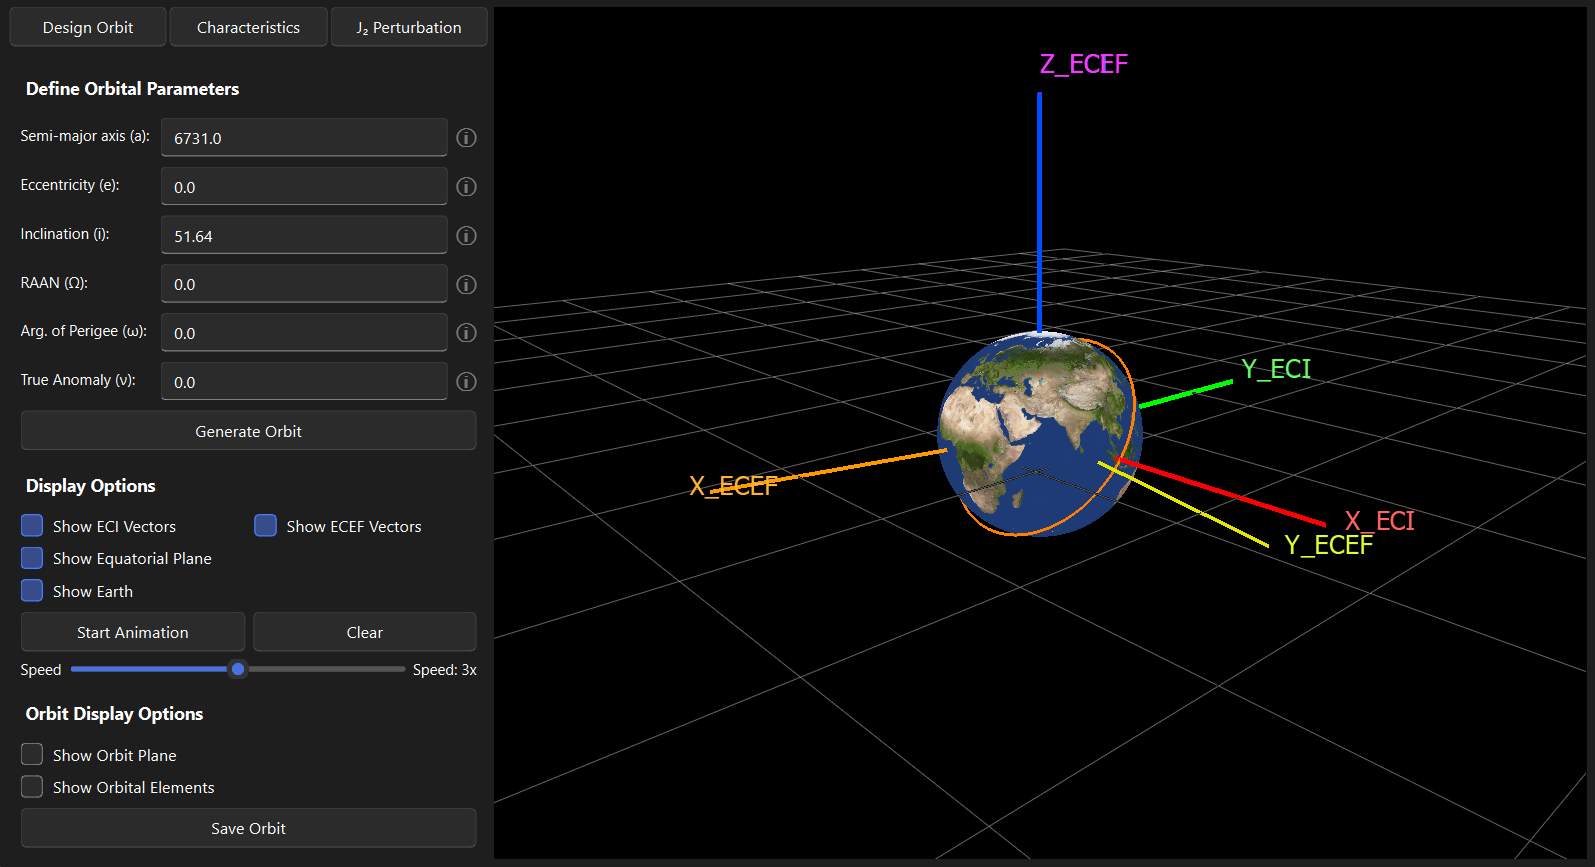
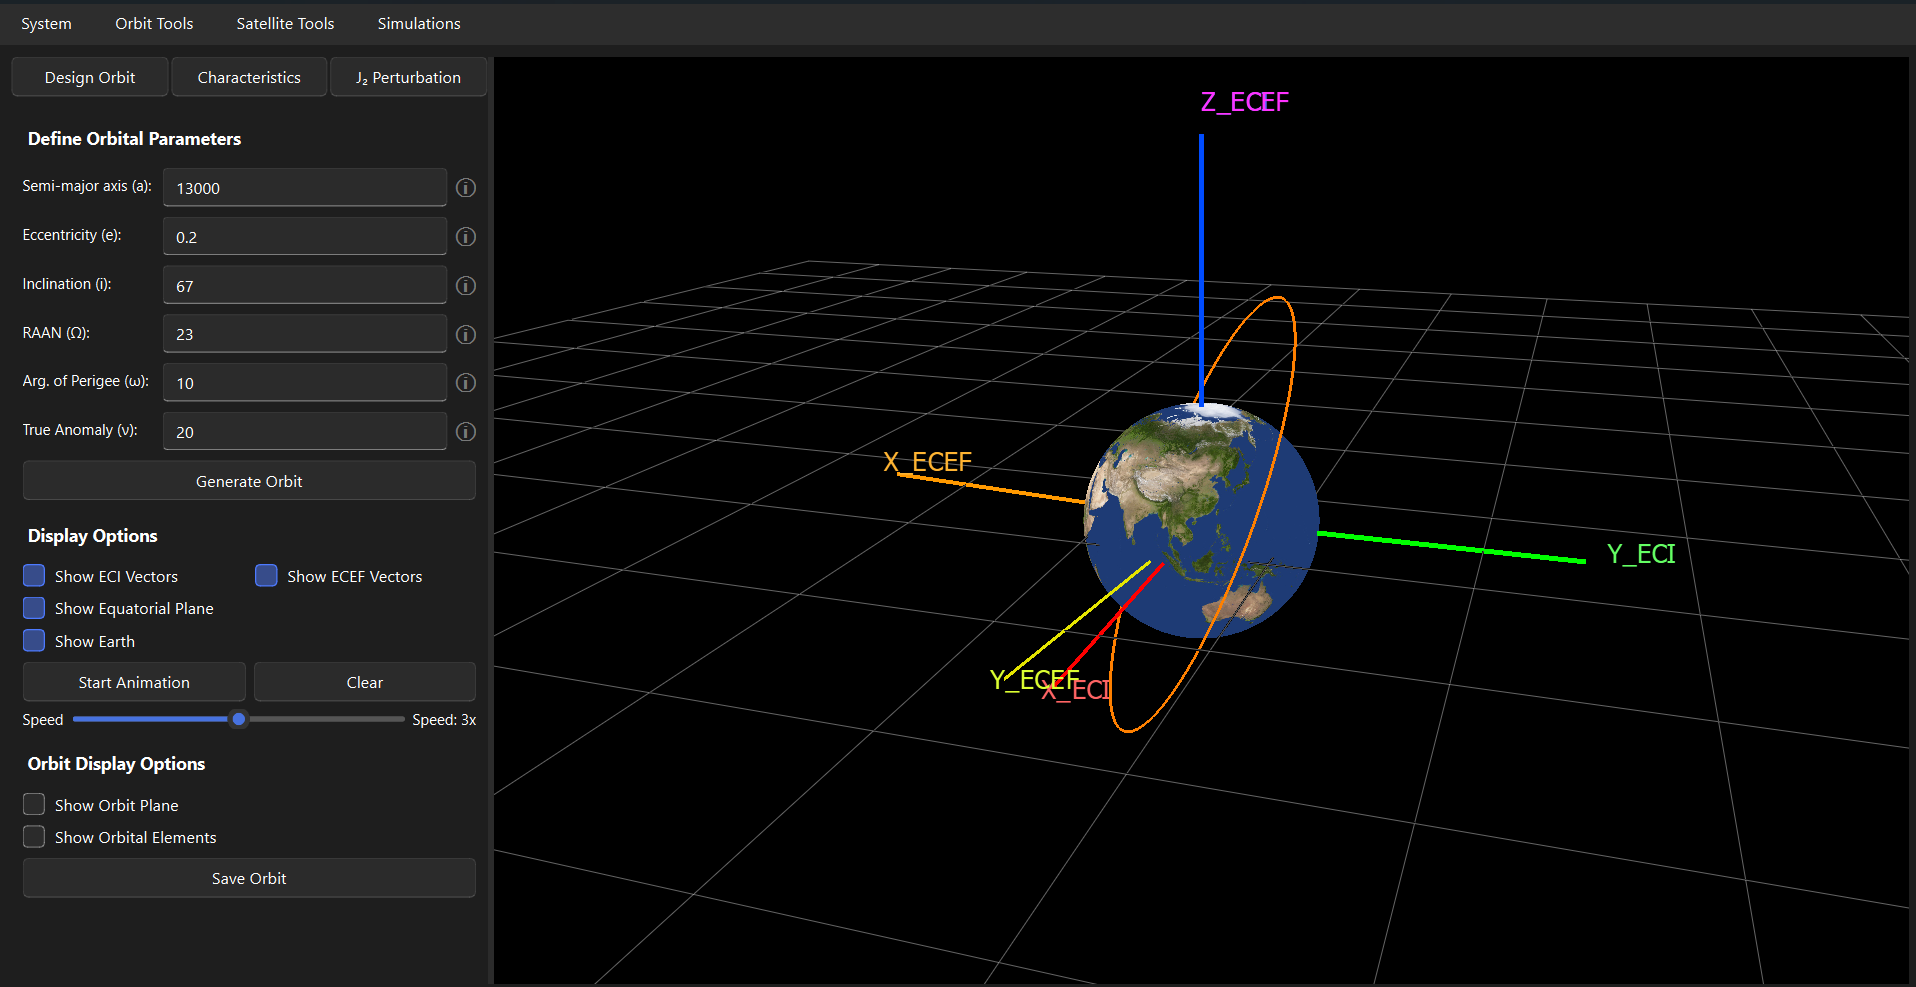
Little changes

diff --git a/core/tests/satellite/test_satellite_inertia_tensor.py b/core/tests/satellite/test_satellite_inertia_tensor.py
@@ -1,0 +1,128 @@
+import numpy as np
+import pytest
+from numpy.testing import assert_allclose
+
+from core.physics.dataclasses.satellite_configuration import calculate_total_inertia_tensor
+
+
+def test_calculate_total_inertia_empty_wheels():
+    i_b = np.diag([10.0, 12.0, 15.0])
+    i_s = calculate_total_inertia_tensor(
+        mechanical_tensor=i_b,
+        wheel_mass=1.0,
+        wheel_radius=0.1,
+        wheel_height=0.05,
+        wheel_axes=[],
+        wheel_offsets=[],
+    )
+    assert_allclose(i_s, i_b, atol=1e-15)
+
+
+import numpy as np
+from numpy.testing import assert_allclose
+
+
+def test_calculate_total_inertia_default_offset():
+    # Kadłub o zerowej masie dla wyizolowania wpływu samego koła
+    i_b = np.zeros((3, 3))
+    mass = 2.0
+    r = 0.01  # promień koła [m]
+    h = 0.01  # wysokość koła [m]
+    default_d = 0.005  # domyślny nominalny offset 5 mm (0.005 m)
+
+    # Koło zorientowane wzdłuż osi Z
+    axis_z = np.array([0.0, 0.0, 1.0])
+
+    # Wywołanie funkcji z wheel_offsets=None (wymuszenie domyślnego offsetu)
+    i_s = calculate_total_inertia_tensor(
+        mechanical_tensor=i_b,
+        wheel_mass=mass,
+        wheel_radius=r,
+        wheel_height=h,
+        wheel_axes=[axis_z],
+        wheel_offsets=None,
+    )
+
+    # 1. Analityczny tensor bezwładności pojedynczego walca (w układzie lokalnym):
+    # I_z = 0.5 * m * r^2
+    # I_x = I_y = (1/12) * m * (3*r^2 + h^2)
+    i_z_local = 0.5 * mass * (r**2)
+    i_x_local = (1.0 / 12.0) * mass * (3 * (r**2) + (h**2))
+
+    # 2. Poprawka Steinera dla przesunięcia r = [0, 0, default_d]:
+    # delta_Ixx = m * d^2
+    # delta_Iyy = m * d^2
+    # delta_Izz = 0 (przesunięcie wzdłuż osi obrotu)
+    steiner_xx = mass * (default_d**2)
+    steiner_yy = mass * (default_d**2)
+
+    # Oczekiwane wartości końcowe
+    expected_ixx = i_x_local + steiner_xx
+    expected_iyy = i_x_local + steiner_yy
+    expected_izz = i_z_local
+
+    # Weryfikacja
+    assert_allclose(i_s[0, 0], expected_ixx, rtol=1e-5)
+    assert_allclose(i_s[1, 1], expected_iyy, rtol=1e-5)
+    assert_allclose(i_s[2, 2], expected_izz, rtol=1e-5)
+    assert_allclose(i_s[0, 1], 0.0, atol=1e-15)  # brak elementów pozaprzekątnych
+
+
+def test_calculate_total_inertia_physical_invariants():
+    i_b = np.diag([5.0, 5.0, 8.0])
+    axes = [
+        np.array([1.0, 0.0, 0.0]),
+        np.array([0.0, 1.0, 0.0]),
+        np.array([0.707, 0.707, 0.0]),
+    ]
+    offsets = [
+        np.array([0.1, 0.0, 0.0]),
+        np.array([0.0, 0.2, 0.0]),
+        np.array([0.05, 0.05, 0.1]),
+    ]
+
+    i_s = calculate_total_inertia_tensor(
+        mechanical_tensor=i_b,
+        wheel_mass=0.5,
+        wheel_radius=0.05,
+        wheel_height=0.02,
+        wheel_axes=axes,
+        wheel_offsets=offsets,
+    )
+
+    # 1. Symetria
+    assert_allclose(i_s, i_s.T, atol=1e-14)
+
+    # 2. Dodatnia określoność (wszystkie wartości własne > 0)
+    eigenvalues = np.linalg.eigvalsh(i_s)
+    assert np.all(eigenvalues > 0)
+
+    # 3. Nierówność trójkąta
+    ixx, iyy, izz = i_s[0, 0], i_s[1, 1], i_s[2, 2]
+    assert ixx + iyy > izz
+    assert ixx + izz > iyy
+    assert iyy + izz > ixx
+
+
+def test_analytical_values():
+
+    i_b = np.diag(
+        [1/6, 1/6, 1/15]
+    )
+
+    i_s = calculate_total_inertia_tensor(
+        mechanical_tensor=i_b,
+        wheel_mass=0.5,
+        wheel_radius=0.05,
+        wheel_height=0.02,
+        wheel_axes=[np.array([1, 0, 0])],
+        wheel_offsets=None,
+    )
+
+    expected_ixx = 0.16729167
+    expected_iyy = 0.16700833
+    expected_izz = 0.06700833
+
+    assert_allclose(i_s[0, 0], expected_ixx, rtol=1e-5)
+    assert_allclose(i_s[1, 1], expected_iyy, rtol=1e-5)
+    assert_allclose(i_s[2, 2], expected_izz, rtol=1e-5)

diff --git a/core/physics/solver/simulation_engine.py b/core/physics/solver/simulation_engine.py
@@ -4,7 +4,6 @@ from typing import Dict, List, Optional, Tuple
 import numpy as np
 
 from core.physics.control.bdot import BdotController
-from core.physics.control.moment_dumping_controller import MomentumDumpingController
 from core.physics.control.rw_controller import ReactionWheelsController
 from core.physics.control.slerp_trajectory import SlerpTrajectoryGenerator
 from core.physics.dataclasses.satellite_configuration import (
@@ -121,15 +120,7 @@ class SimulationEngine:
         self.current_tau_ctrl = np.zeros(3, dtype=float)
         self.i_ctrl = np.zeros(3, dtype=float)
 
-        self.momentum_dumping_controller = MomentumDumpingController(
-            wheel_axes=self.wheel_axes,
-            I_R_spin=self.I_R_spin,
-            max_wheel_speed=self.rw_controller.max_speed,
-            dump_start_ratio=0.70,
-            dump_full_ratio=0.90,
-            dump_gain=0.01,
-            max_dipole=0.2,
-        )
+
 
         self.atmospheric_model = AtmosphericDragDisturbance(
             mass=m_total,
@@ -149,7 +140,6 @@ class SimulationEngine:
 
         self.current_m_dipole = np.zeros(3)
         self.current_tau_mag = np.zeros(3)
-        self.momentum_dumping_active = False
 
         self.next_mag_update = 0.0
         self.next_gyro_update = 0.0
@@ -226,7 +216,6 @@ class SimulationEngine:
 
                 self.current_m_dipole = self.i_ctrl
                 self.current_tau_mag = self.current_tau_ctrl
-                self.momentum_dumping_active = False
 
             elif self.adcs_mode == "POINTING":
                 self.i_ctrl = np.zeros(3)
@@ -282,14 +271,6 @@ class SimulationEngine:
                     target_omega=cmd_omega,
                 )
 
-                (
-                    self.current_m_dipole,
-                    self.current_tau_mag,
-                    self.momentum_dumping_active,
-                ) = self.momentum_dumping_controller.compute_control(
-                    current_omega_rw=self.sim_state.satellite.omega_rw,
-                    current_b_body=self.current_b_body,
-                )
             else:
                 self.i_ctrl = np.zeros(3)
                 self.alpha_wheels = np.zeros(
@@ -298,7 +279,6 @@ class SimulationEngine:
                 self.current_tau_ctrl = np.zeros(3)
                 self.current_m_dipole = np.zeros(3)
                 self.current_tau_mag = np.zeros(3)
-                self.momentum_dumping_active = False
 
             self.next_control_update += self.dt_control
 

diff --git a/core/physics/dataclasses/satellite_configuration.py b/core/physics/dataclasses/satellite_configuration.py
@@ -117,11 +117,9 @@ def calculate_rotation_matrix_to_axis(target_axis: np.ndarray) -> np.ndarray:
     if np.isclose(dot_prod, -1.0):
         return np.diag([1.0, -1.0, -1.0])
 
-    # Wektor osi obrotu (iloczyn wektorowy)
     v = np.cross(z_local, n_ri)
     s_v = skew_symmetric_matrix(v)
     
-    # Formuła Rodrigues'a dla macierzy obrotu
     r_matrix = np.eye(3, dtype=float) + s_v + (s_v @ s_v) * (1.0 / (1.0 + dot_prod))
     return r_matrix
 
@@ -153,13 +151,10 @@ def calculate_axisymmetric_cylinder_inertia_tensor(
     if wheel_tensor is not None:
         i_rwi = np.asarray(wheel_tensor, dtype=float)
         if i_rwi.shape != (3, 3):
-            raise ValueError("Wektor/macierz 'wheel_tensor' musi mieć wymiary 3x3.")
+            raise ValueError()
     else:
         if wheel_mass is None or wheel_radius is None or wheel_height is None:
-            raise ValueError(
-                "W przypadku braku 'wheel_tensor' należy podać parametry: "
-                "wheel_mass, wheel_radius oraz wheel_height."
-            )
+            raise ValueError()
         i_rwi = calculate_reaction_wheel_local_inertia(wheel_mass, wheel_radius, wheel_height)
 
     if axis is None:
@@ -213,24 +208,19 @@ def calculate_total_inertia_tensor(
     i_s = np.array(mechanical_tensor, dtype=float, copy=True)
 
     for i, axis in enumerate(wheel_axes):
-        # 1. Transformacja osi i wyznaczenie I_Ri^B
         i_ri_b = calculate_axisymmetric_cylinder_inertia_tensor(
             wheel_mass, wheel_radius, wheel_height, axis
         )
 
-        # 2. Wyznaczenie wektora przesunięcia r_Ri
         if wheel_offsets is not None and i < len(wheel_offsets):
             r_ri = np.array(wheel_offsets[i], dtype=float)
         else:
-            # Domyślny nominalny offset 5 mm wzdłuż osi obrotu koła
             norm_axis = axis / np.linalg.norm(axis) if np.linalg.norm(axis) > 0 else axis
             r_ri = norm_axis * 0.005
 
-        # 3. Twierdzenie Steinera: m_R * S(r_Ri) * S(r_Ri)^T
         s_r = skew_symmetric_matrix(r_ri)
         steiner_term = wheel_mass * (s_r @ s_r.T)
 
-        # 4. Sumowanie składników I_RBi^B
         i_rbi_b = i_ri_b + steiner_term
         i_s += i_rbi_b
         i_s[np.abs(i_s) < 1e-15] = 0.0  

diff --git a/ui/tests/test_gmst.py b/ui/tests/test_gmst.py
@@ -1,0 +1,51 @@
+import datetime
+import pytest
+
+from utils.rotations import datetime_to_julian_date, get_initial_gmst
+
+
+@pytest.mark.parametrize(
+    "dt, expected_jd, expected_gmst",
+    [
+        (
+            datetime.datetime(2000, 1, 1, 12, 0, 0, tzinfo=datetime.timezone.utc),
+            2451545.0,
+            280.46061837,
+        ),
+        (
+            datetime.datetime(2000, 1, 1, 0, 0, 0, tzinfo=datetime.timezone.utc),
+            2451544.5,
+            99.967794686855,
+        ),
+        (
+            datetime.datetime(2024, 1, 1, 0, 0, 0, tzinfo=datetime.timezone.utc),
+            2460310.5,
+            100.15260758483782,  # Poprawiona wartość
+        ),
+    ],
+)
+
+def test_julian_date_and_gmst_known_values(dt, expected_jd, expected_gmst):
+    jd = datetime_to_julian_date(dt)
+    gmst = get_initial_gmst(jd)
+
+    assert jd == pytest.approx(expected_jd, abs=1e-6)
+    assert gmst == pytest.approx(expected_gmst, abs=1e-6)
+
+
+def test_timezone_conversion():
+    cet = datetime.timezone(datetime.timedelta(hours=1))
+    dt_cet = datetime.datetime(2000, 1, 1, 13, 0, 0, tzinfo=cet)
+
+    jd = datetime_to_julian_date(dt_cet)
+    gmst = get_initial_gmst(jd)
+
+    assert jd == pytest.approx(2451545.0, abs=1e-6)
+    assert gmst == pytest.approx(280.46061837, abs=1e-6)
+
+
+def test_naive_datetime_handling():
+    dt_naive = datetime.datetime(2000, 1, 1, 12, 0, 0)
+
+    jd = datetime_to_julian_date(dt_naive)
+    assert jd == pytest.approx(2451545.0, abs=1e-6)

diff --git a/ui/simulation/simulation_view.py b/ui/simulation/simulation_view.py
@@ -99,6 +99,7 @@ class SimulationView(QWidget):
             QSizePolicy.Policy.Expanding,
         )
 
+
         self.controls_panel_container.satellite_state_changed.connect(
             self._on_satellite_state_changed
         )
@@ -115,7 +116,8 @@ class SimulationView(QWidget):
         self.initial_gmst = get_initial_gmst(current_jd)
         self.current_ecef_rotation = self.initial_gmst
 
-        self.scene_panel_container._ensure_ECEF_orientation(self.current_ecef_rotation)        
+        self.scene_panel_container._ensure_ECEF_orientation(self.current_ecef_rotation)
+             
 
         splitter.addWidget(self.controls_panel_container)
         splitter.addWidget(self.scene_panel_container)

diff --git a/ui/satellite/satellite_configurator.py b/ui/satellite/satellite_configurator.py
@@ -137,6 +137,7 @@ class SatelliteConfigurator(QWidget):
                 "\n".join(errors.values() if isinstance(errors, dict) else errors),
                 icon=QMessageBox.Icon.Warning
             )
+            self.reset()
             return
 
         # 1. Zablokowanie sygnałów w panelu kontrolek na czas aplikacji danych

diff --git a/ui/orbits/orbit_designer.py b/ui/orbits/orbit_designer.py
@@ -70,6 +70,7 @@ class OrbitDesigner(QWidget):
         
         self.initial_gmst = get_initial_gmst(current_jd)
         self.current_ecef_rotation = self.initial_gmst
+        print("Current GMST angle: ", self.current_ecef_rotation)
     
         self.total_steps_elapsed = 0
 

diff --git a/ui/simulation/components/simulation_control_panel.py b/ui/simulation/components/simulation_control_panel.py
@@ -242,6 +242,8 @@ class SimulationControlPanel(QWidget):
             lambda chk: self.overlay_toggled.emit("body_axes", chk)
         )
 
+        self.chk_body_axes.setChecked(False)
+
         layout.addWidget(self.chk_body_axes)
 
         return group

diff --git a/core/physics/control/rw_controller.py b/core/physics/control/rw_controller.py
@@ -85,12 +85,6 @@ class ReactionWheelsController:
             1.0,
         )
 
-        angle_deg_error = np.degrees(
-            2.0 * np.arccos(dot)
-        )
-
-      
-
         e_angle = 2.0 * q_err[1:4]
 
         e_norm = np.linalg.norm(e_angle)

diff --git a/ui/simulation/components/simulation_scene.py b/ui/simulation/components/simulation_scene.py
@@ -263,7 +263,7 @@ class SimulationScene(QWidget):
 
         if not self._axis_items:
             self._draw_rgb_body_axes()
-            self.show_body_frame(True)
+            self.show_body_frame(False)
 
         x, y, z = position_km
 
